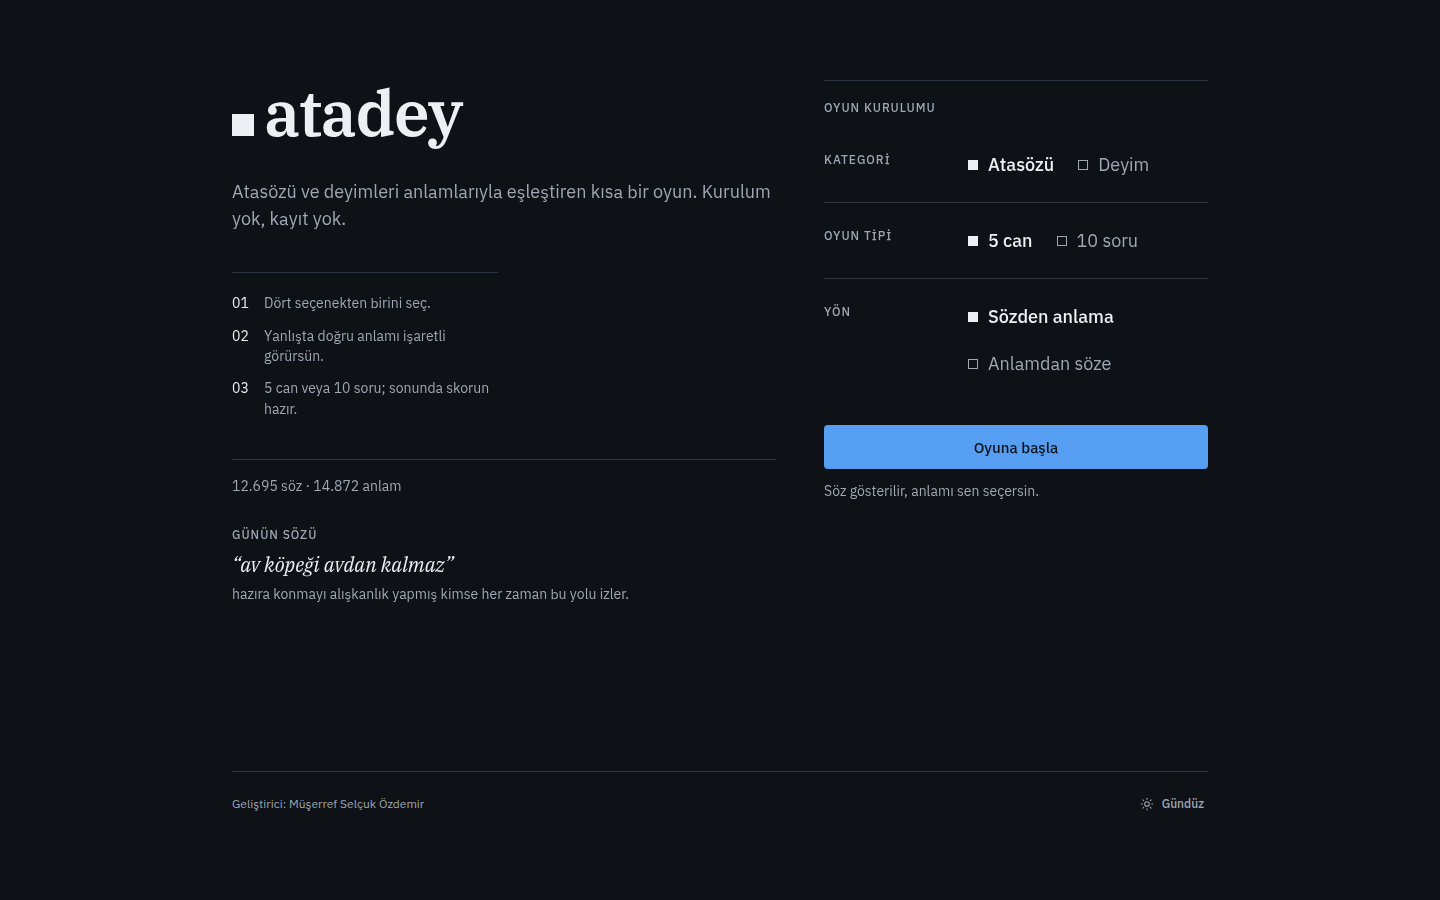
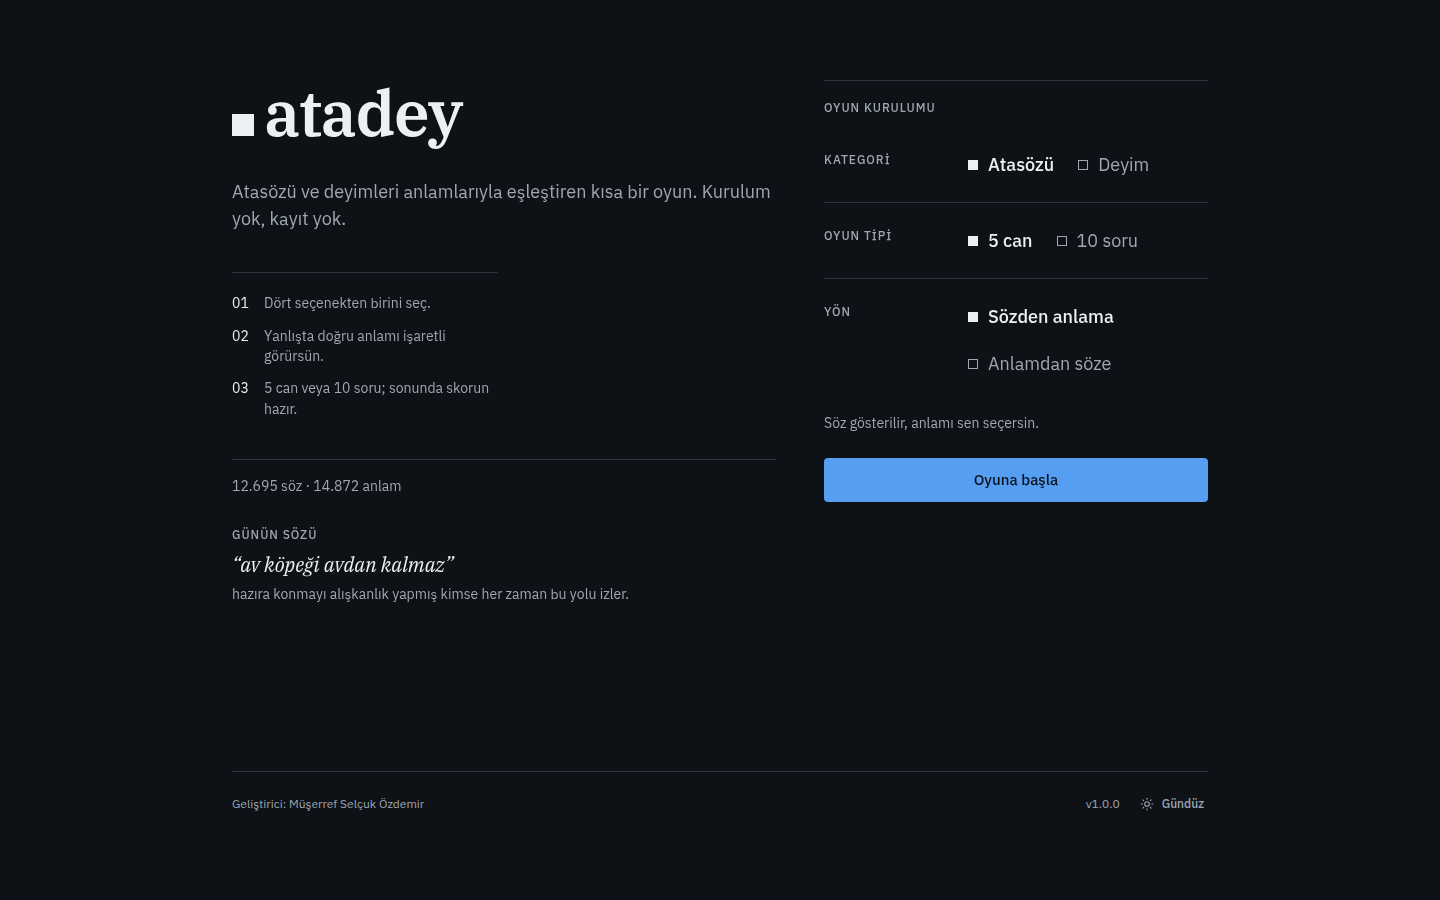
docs: v1.0.0 sürüm notlarını kes ve ekran görüntülerini yenile
- CHANGELOG'da `Unreleased` kapatılıp `1.0.0` başlığı altında toplandı;
  ekran geçişleri, hata sınırı ve sürüm satırı eklendi.
- README: sürüm rozeti, geçiş/hata davranışının güncel anlatımı; panoya
  kopyalama (artık yok) ve tekrarlanan PNG maddesi temizlendi.
- DESIGN: hareket bölümü iki geçiş kapsamını (kart / ekran) anlatıyor,
  hata bölümü çizim hatasını kapsıyor, menü alt satırında sürüm var.
- ARCHITECTURE: bileşen ağacı `main.tsx` hata sınırıyla güncellendi;
  “karanlık tema yok” diyen eskimiş karar notu gerçekle değiştirildi.
- Menü ekran görüntüleri yeni alt bilgiyle yeniden alındı.

Changed region(s): [[0.5625, 0.4667, 0.8438, 0.56], [0.75, 0.8711, 0.7812, 0.9022]]

diff --git a/README.md b/README.md
@@ -4,6 +4,7 @@
 
 [![CI](https://github.com/SelcukOzdemir23/atadey/actions/workflows/ci.yml/badge.svg)](https://github.com/SelcukOzdemir23/atadey/actions/workflows/ci.yml)
 [![Lisans: MIT](https://img.shields.io/badge/lisans-MIT-blue.svg)](LICENSE)
+[![Sürüm: 1.0.0](https://img.shields.io/badge/s%C3%BCr%C3%BCm-1.0.0-1f6feb)](CHANGELOG.md)
 [![Canlı site](https://img.shields.io/badge/canl%C4%B1%20site-atadey-1f6feb)](https://selcukozdemir23.github.io/atadey/)
 
 </div>
@@ -39,7 +40,7 @@ Paylaşım görseli (1080×1920, uygulamadan üretilmiş):
 
 Her soruda dört seçenekten biri doğrudur. Cevaptan sonra doğru anlam, varsa
 kullanım örneğiyle birlikte gösterilir; örnek yoksa satır hiç basılmaz. Oyun
-sonunda skorun görseli indirilebilir veya panoya kopyalanabilir.
+sonunda skorun 9:16 görseli dosya olarak indirilebilir.
 
 ## Veri
 
@@ -65,10 +66,12 @@ seçenek doğru olamaz.
 - **Günün sözü**: menüde her gün seçkiden bir atasözü ve anlamı.
 - **9:16 hikâye görseli**: sonuç, 1080×1920 dikey kompozisyon olarak üretilir
   ve her zaman dosya olarak iner.
-- Soru geçişi destekleyen tarayıcılarda native view transition ile yapılır.
+- Geçişler native view transition ile: soru değişiminde kart, menü → oyun →
+  sonuç akışında sayfanın tamamı yumuşar; azaltılmış hareket tercihinde düz.
 - Tamamen istemci tarafı; sunucu, hesap, çerez ve izleme betiği yok.
 - Yazı tipleri kendi barındırılıyor; sayfa açılırken üçüncü tarafa istek gitmiyor.
-- Sonucu PNG olarak indirme (1080×1920 hikâye formatı).
+- Beklenmedik bir çizim hatasında beyaz ekran yerine kısa açıklama ve yenileme
+  düğmesi.
 
 ## Kurulum
 

diff --git a/docs/ARCHITECTURE.md b/docs/ARCHITECTURE.md
@@ -4,12 +4,12 @@ Tek sayfa, tamamen istemci tarafı. Sunucu, hesap, veritabanı yok.
 
 ```
 index.html
-└── src/main.tsx
+└── src/main.tsx                  ErrorBoundary + yazı tipleri
     └── App.tsx                    ekran seçimi
         ├── components/menu/MenuScreen      kategori / oyun tipi / yön
         ├── components/game/GameScreen      ScoreStrip + soru + FeedbackBlock
         ├── components/result/ResultScreen  skor + paylaşma
-        └── components/states/*             yükleniyor / hata
+        └── components/states/*             yükleniyor / veri hatası
 
 src/hooks/useGameRun.ts          oyun durumu (reducer) + veri istekleri
 src/dataLoader.ts               veri yükleme + soru üretimi
@@ -99,7 +99,9 @@ değiştiğinde testlerin kırılmaması bunun içindir.
   davranışını ve derin bağlantıyı bedavaya getirmez; gerektiğinde eklenir.
 - **Global state yönetimi yok.** Tek ekran ağacı, tek `App`. Prop drilling
   rahatsız edici olduğunda context'e geçilir.
-- **Karanlık tema yok.** Palet tek: aydınlık “fihrist” yüzeyi. Tema eklemek
-  bütün token setini ikiye katlar; ihtiyaç doğunca yapılır.
+- **Tema tek token setinin eşlemesi.** `styles.css` iki paleti tanımlar;
+  `:root` yalnızca hangisinin bağlı olduğunu söyler, bileşenler ham renk bilmez.
+- **Hata sınırı tek yerde.** Beklenmedik çizim hatasını `ErrorBoundary` yakalar;
+  veri yükleme hatası ayrı bir ekran (`components/states/ErrorScreen`).
 - **Veri build zamanında üretilir**, çalışma anında dönüştürülmez: aynı girdi
   aynı oyunu verir, test edilebilir kalır.

diff --git a/CHANGELOG.md b/CHANGELOG.md
@@ -5,6 +5,8 @@ Bu proje [Keep a Changelog](https://keepachangelog.com/tr/1.1.0/) biçimini ve
 
 ## [Unreleased]
 
+## [1.0.0] - 2026-11-06
+
 ### Değişti
 
 - **Paylaşım her zaman indirir.** Panoya yazma, tarayıcı iznine ve desteğe göre
@@ -73,7 +75,14 @@ Bu proje [Keep a Changelog](https://keepachangelog.com/tr/1.1.0/) biçimini ve
 - **Kısa ekranlarda birincil eylem**: < 640px'te “Oyuna başla” yapışkan alt
   şeritte; 320×568'de de kaydırmadan erişilir.
 - Soru geçişi destekleyen tarayıcılarda `document.startViewTransition` ile;
-  sayfanın geri kalanı anında yenileniyor, `prefers-reduced-motion`'da düz.
+  soru değişiminde yalnızca kart, ekran değişiminde sayfanın tamamı yumuşuyor,
+  `prefers-reduced-motion`'da düz.
+- **Ekran geçişleri**: menü → oyun → sonuç akışı tek bir sayfa geçişiyle
+  birleşti; geçiş sırasında gelen ekranın kendi giriş animasyonu kapanıyor.
+- **Hata sınırı**: beklenmedik bir çizim hatası beyaz ekran bırakmıyor; aynı
+  kâğıt dilinde kısa bir açıklama ve “Sayfayı yenile” düğmesi çıkıyor.
+- Menü alt bilgisinde sürüm (`v1.0.0`), `package.json`'dan build sırasında
+  gömülüyor; ikinci bir elle güncellenen sürüm numarası yok.
 - **“Fihrist” arayüzü**: tek kaynaklı token seti (kâğıt/mürekkep/çivit), IBM Plex
   Serif + IBM Plex Sans (kendi barındırılan), 4px yarıçap, hairline çizgiler.
   Menü, oyun, sonuç ve hata ekranları yeniden yazıldı; `App.tsx` 674 satırdan

diff --git a/docs/DESIGN.md b/docs/DESIGN.md
@@ -120,7 +120,8 @@ hâlâ seçim yaparken (boşta) önceden yüklenir: ilk soru anında hazır olur
 
 Kapak sütununun altında **günün sözü**: gerçek manifest seçkisinden tek bir
 atasözü, serif italik ve anlamı. Her gün değişir; veri uydurulmaz. Alt satırda
-geliştirici notu ve tema düğmesi (Gece/Gündüz).
+geliştirici notu, sürüm (`package.json`'dan build sırasında gömülür — elle
+senkron tutulan ikinci bir numara yok) ve tema düğmesi (Gece/Gündüz).
 
 ### Oyun — “madde”
 
@@ -161,10 +162,18 @@ gece modunda koyu fiş üretilir.
 Tek cümle + tek düğme. “Veri yüklenemedi. Bağlantını kontrol edip yeniden
 dene.” — suçlama yok, teknik ayrıntı konsolda.
 
+Beklenmedik bir çizim hatası beyaz ekran bırakmaz: `ErrorBoundary` aynı kâğıt
+dilinde kısa bir açıklama ve **Sayfayı yenile** düğmesi gösterir; hata yine
+konsola düşer.
+
 ## Hareket
 
 - 160–200ms, `cubic-bezier(0.22, 1, 0.36, 1)`; yalnız `opacity` ve `translateY`
   (≤ 8px). Bounce, elastic, sonsuz döngü yok.
+- İki geçiş kapsamı var: **soru değişimi** yalnızca kartı canlandırır (skor
+  şeridi yerinde kalır, titremez), **ekran değişimi** (menü → oyun → sonuç)
+  sayfanın tamamını yumuşak geçirir. Geçiş sırasında gelen ekranın kendi giriş
+  animasyonu kapanır; iki hareket üst üste binmez.
 - Kart geçişinde tek giriş animasyonu; seçenekler kademeli belirmez.
 - `prefers-reduced-motion: reduce` → tümü kapalı, anlık geçiş.
 
